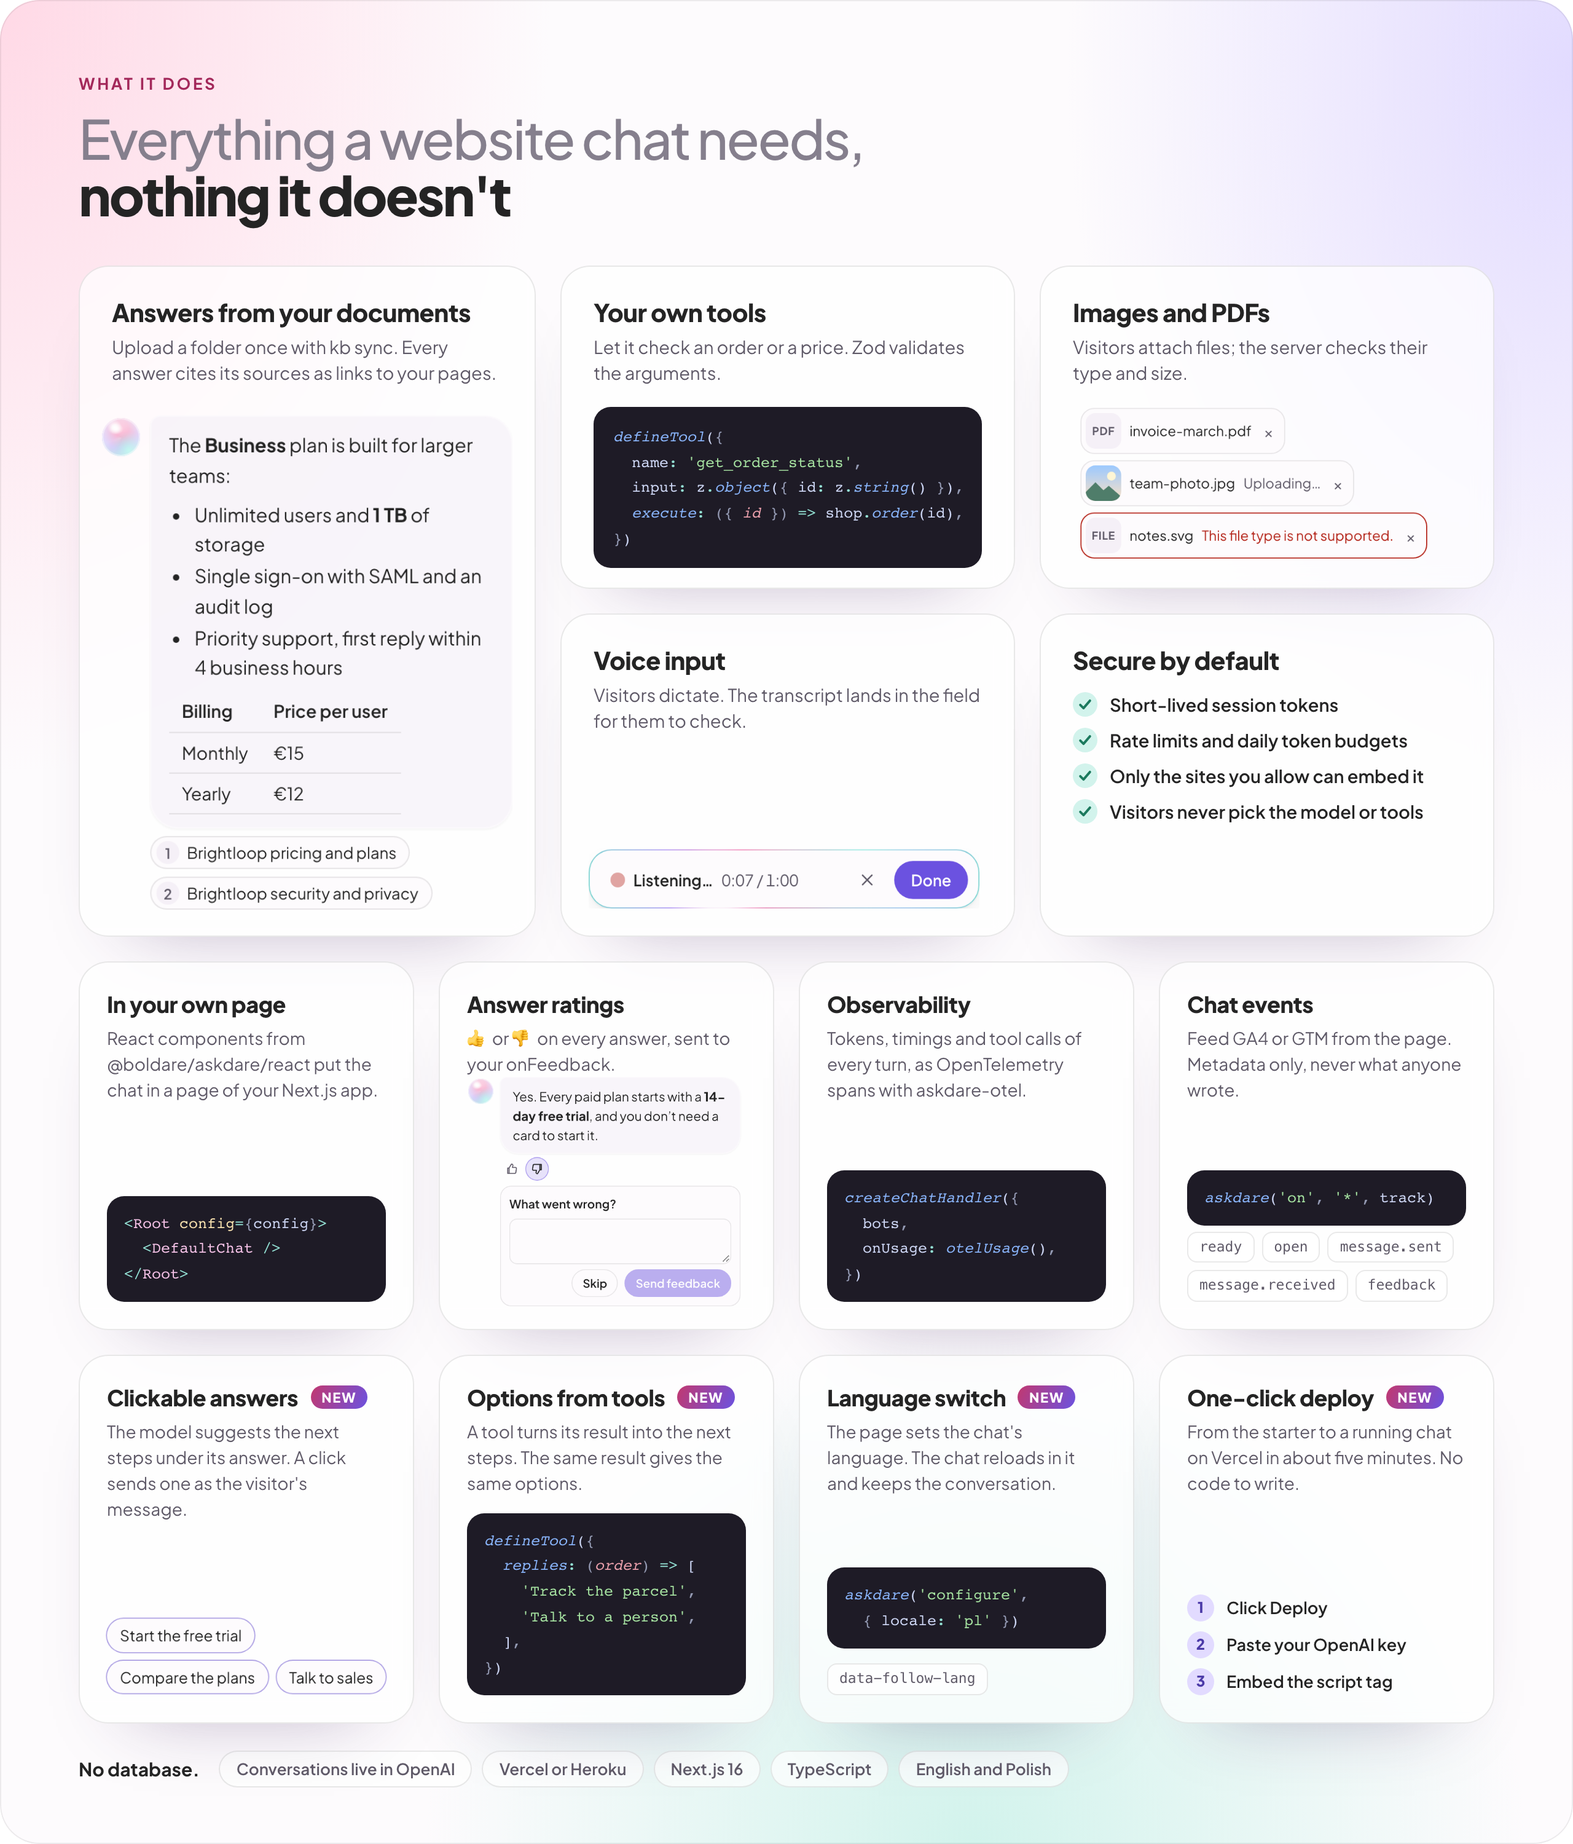
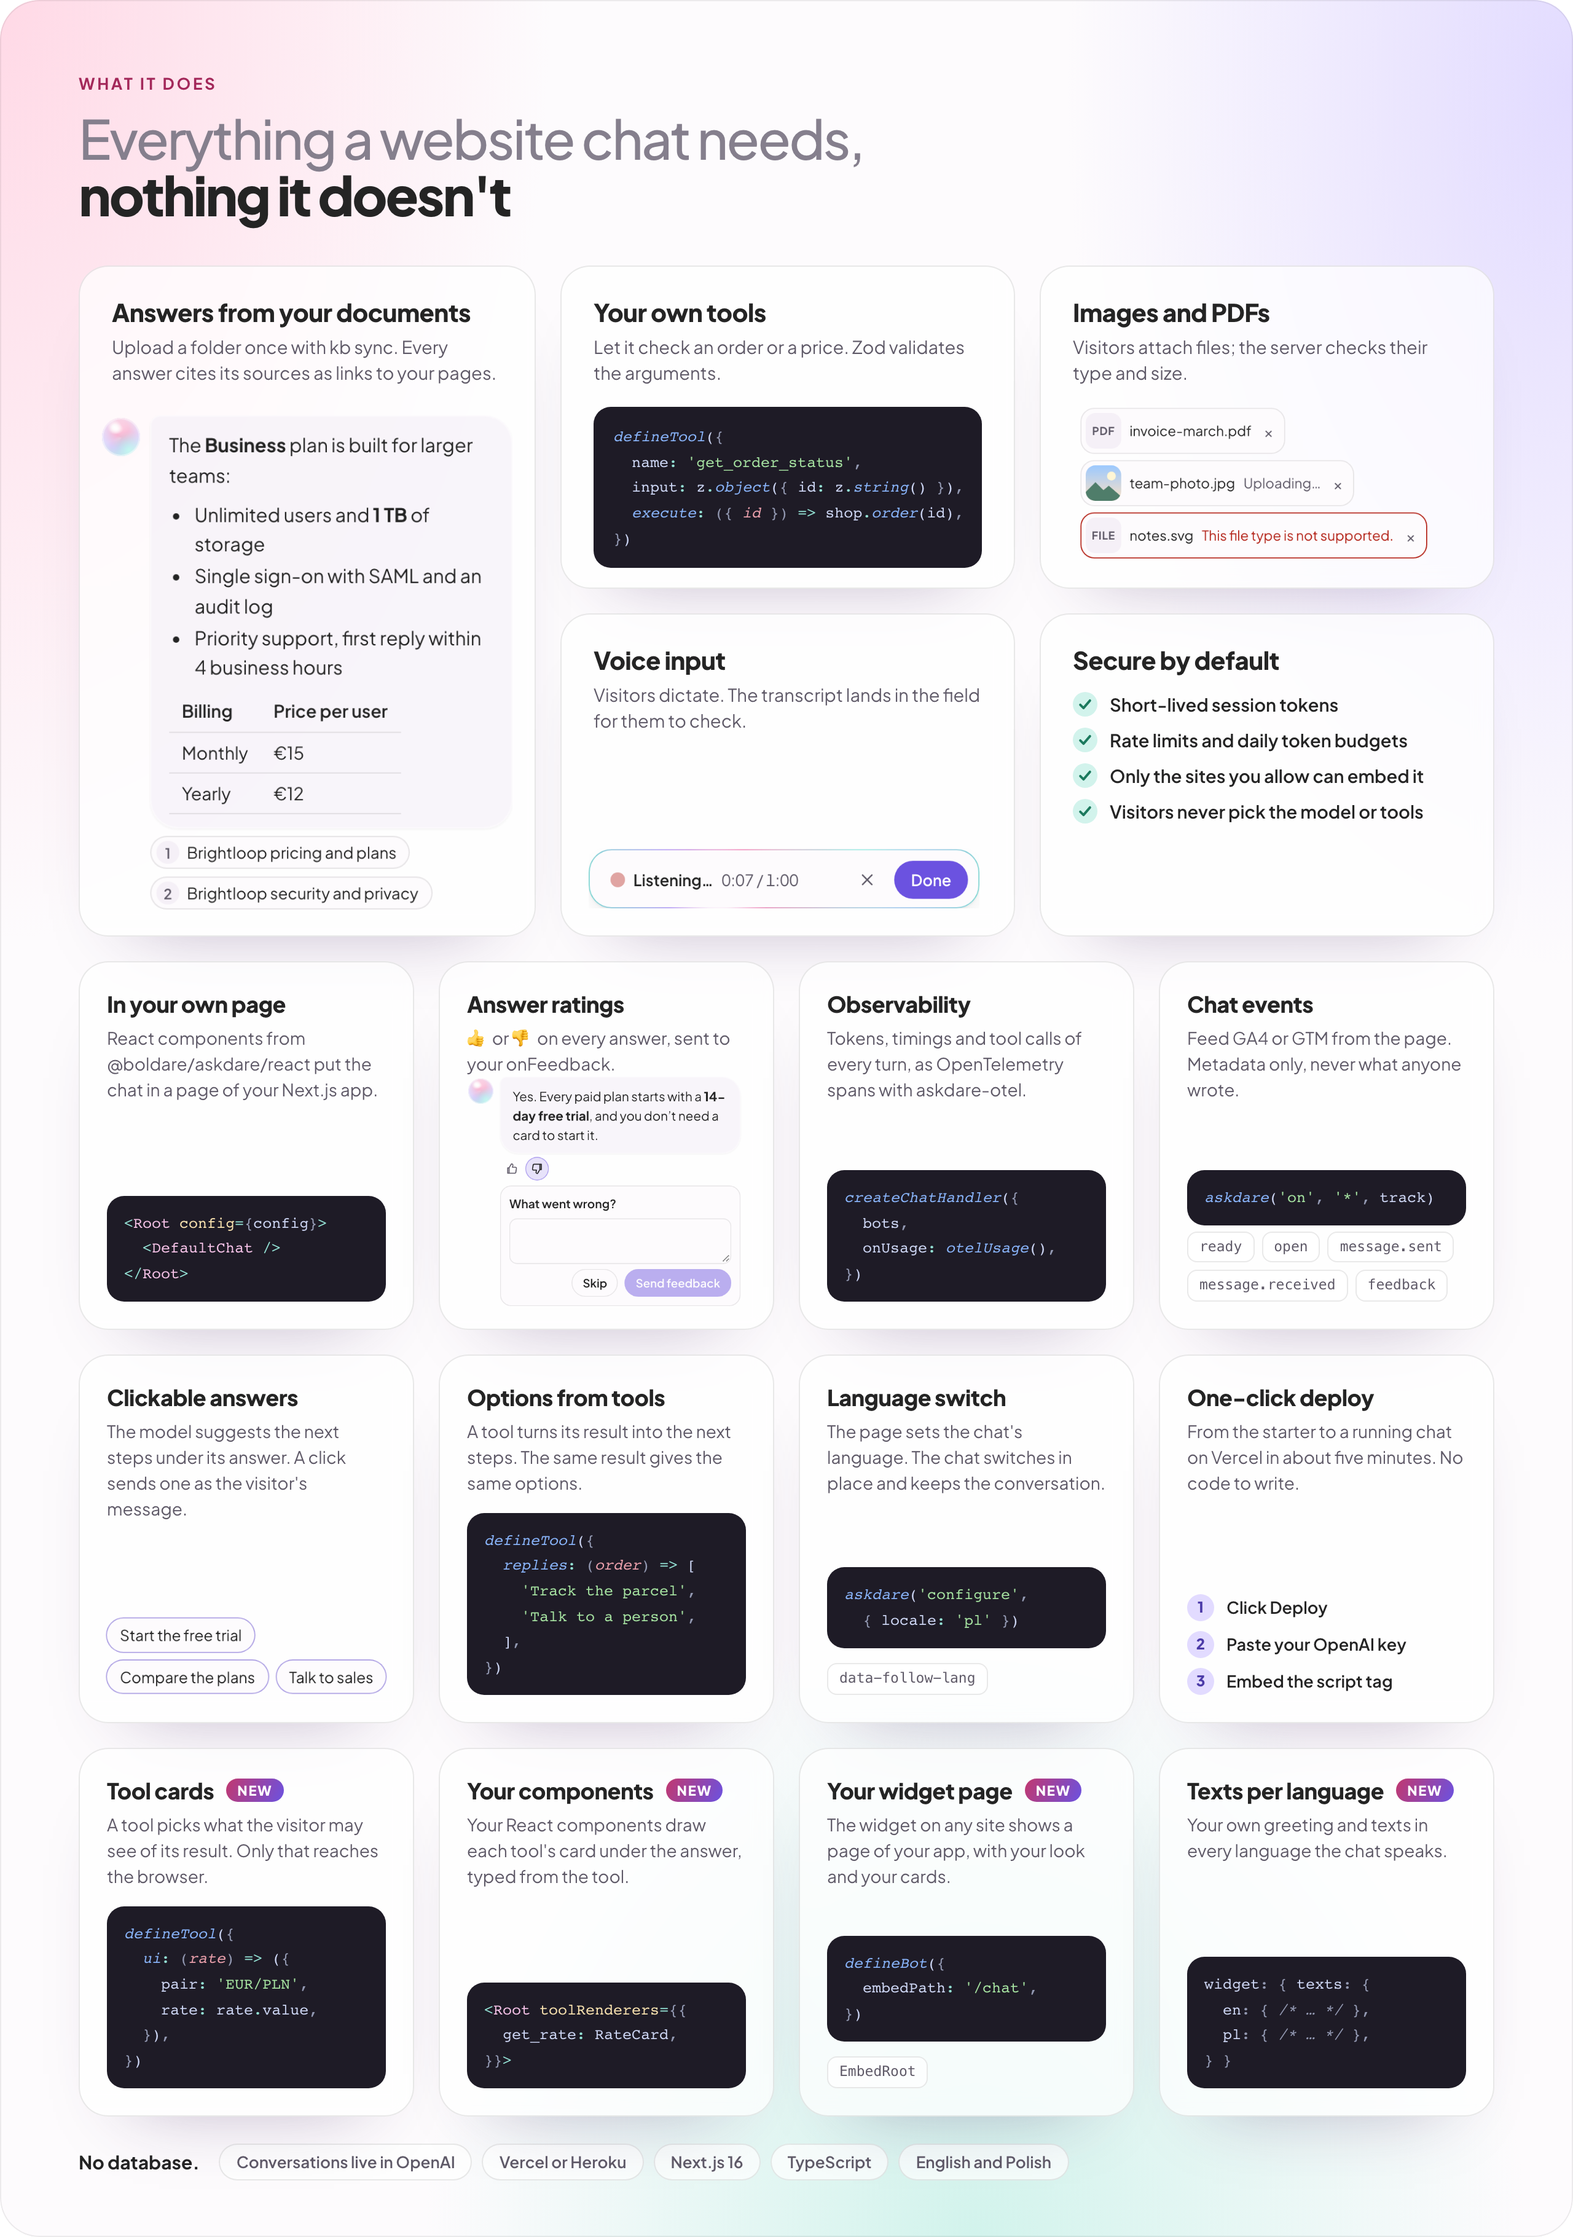
docs: prepare the 0.4 release notes, poster and roadmap

diff --git a/site/app/(site)/page.tsx b/site/app/(site)/page.tsx
@@ -48,7 +48,7 @@ const FEATURES = [
   },
   {
     title: 'Your own tools',
-    text: 'Let the assistant check an order or a price. Arguments are validated with Zod, end to end.',
+    text: 'Let the assistant check an order or a price, and show the result as your own card. Zod validates the arguments.',
     href: '/docs/tools',
     more: 'Tools',
   },
@@ -60,7 +60,7 @@ const FEATURES = [
   },
   {
     title: 'Inside your React pages',
-    text: 'Or skip the iframe: render the chat in your own Next.js pages, ready-made or in your own markup.',
+    text: 'Render the chat in your own Next.js pages, ready-made or in your own markup, and show that page in the widget too.',
     href: '/docs/react',
     more: 'The chat inside your page',
   },

diff --git a/ROADMAP.md b/ROADMAP.md
@@ -23,17 +23,14 @@ A change to what a release contains comes as a pull request to this file.
 
 Compaction left 0.3 after spike S5b; see Later.
 
-## 0.4: settle in
+## 0.4.0: settle in
 
-0.4 ships these three, in this order, one at a time in the Core lane:
+0.4.0 is ready for release. What it brings:
+- runtime language, step 2: texts per language in `defineBot`, `GET <basePath>/config/<bot>?lang=`, and the chat switching its language in place, keeping the conversation and an answer under way ([ADR-0014](docs/adr/0014-runtime-language.md));
+- tool cards: a tool picks what the visitor may see of its result with `defineTool({ ui })`, and React components draw it with `toolRenderers` ([ADR-0017](docs/adr/0017-tool-renderers.md));
+- your own page in the widget's iframe: `embedPath`, `EmbedRoot` from `@boldare/askdare/embed`, `getEmbedConfig` and `embedPageHeaders`, so the script-tag widget uses your components and draws your tool cards ([ADR-0018](docs/adr/0018-embed-path.md)).
 
-| Epic | Goal | Decision |
-|---|---|---|
-| Runtime language, step 2 | Switch the language in place, with texts per language in `defineBot` and `GET <basePath>/config/<bot>?lang=` | [ADR-0014](docs/adr/0014-runtime-language.md) |
-| `toolRenderers` | React components for tool results, building on the reply-options payload. | [ADR-0017](docs/adr/0017-tool-renderers.md) |
-| `embedPath` | A custom UI inside the iframe, so the script-tag widget can use your own components and `toolRenderers`. | [ADR-0018](docs/adr/0018-embed-path.md) |
-
-All three are done: runtime language step 2, `toolRenderers` (ADR-0017) and `embedPath` (ADR-0018). Admin left 0.4 to keep it small; see Later.
+Admin left 0.4 to keep it small; see Later.
 
 ## Later
 
@@ -73,6 +70,6 @@ Work runs in parallel lanes. Tasks that touch the **hot files** run one at a tim
 | Deploy | What is left of the deploy buttons: the starter template repo for the Heroku button | No |
 | Decisions | ADRs and design notes, in parallel with everything. The 0.4 design notes are done (ADR-0017, ADR-0018) | No |
 | Spikes | Experiments in `spikes/`. For 0.4: S6, a `ModelGateway` for Claude | No |
-| Core | Nothing left for 0.4 | **Yes**, one task at a time |
+| Core | Nothing open until the next release is planned | **Yes**, one task at a time |
 
 Core work for 0.4 lands on `main` with `--no-ff`, or on an integration branch `release/0.4` if a task must not reach `main` before the release ([RELEASING.md](RELEASING.md)). `embedPath` was such a case: its server side (3b) waited on `release/0.4` for `EmbedRoot` (3c), and both reached `main` together.

diff --git a/docs/privacy.md b/docs/privacy.md
@@ -112,7 +112,7 @@ Everything below lives in the OpenAI project whose key the app uses. Name OpenAI
 ### Conversations
 
 - Conversations are stored with OpenAI's Conversations API, in your project, **until they are deleted** ([ADR-0003](adr/0003-conversation-state.md)). Each one carries the bot ID and the visitor ID as metadata (`askdare_bot`, `askdare_visitor`).
-- A conversation holds the visitor's messages, the page context, the answers, and the tool calls with their results. [Reply options](reply-options.md) the model suggested are stored there as a call of `suggest_replies`; options a tool defines aren't stored on their own, since they are derived again from the stored result. A clicked option is an ordinary visitor message. The instructions are sent with each request rather than stored in the conversation.
+- A conversation holds the visitor's messages, the page context, the answers, and the tool calls with their results. [Reply options](reply-options.md) the model suggested are stored there as a call of `suggest_replies`; options a tool defines aren't stored on their own, since they are derived again from the stored result. A clicked option is an ordinary visitor message. [Tool cards](react.md#tool-cards) work the same way: what a tool's `ui` picks from its result is sent to the visitor's browser and shown, and is derived again from the stored result after a reload, so pick only what the visitor may see. The instructions are sent with each request rather than stored in the conversation.
 - **The visitor can delete it.** "Start a new conversation" asks "Start a new conversation? The current one will be deleted." and then deletes it at OpenAI. For bots with attachments, the files attached in it are deleted too; a file that fails to delete expires on its own.
 - **Nothing else deletes it.** When the browser's handle expires after 30 days, or the visitor clears the browser, the conversation stays in your project. askdare keeps no list of conversations, and OpenAI's API has no endpoint to list them, so there is no tool to find, export or delete one visitor's conversation. Take this into account in your retention decision ([Going public](going-public.md#6-privacy-and-transparency)).
 - **Who can read it:** whoever uses the same browser can continue an anonymous conversation and see its history while the handle works. On a shared computer, that includes the next person, unless the visitor started a new conversation. A conversation started while signed in is shown only to that user ([Signed-in visitors](identity.md)).

diff --git a/packages/askdare/README.md b/packages/askdare/README.md
@@ -38,7 +38,7 @@ export const bots = [
 
 ## What you get
 
-[![What it does: answers from your documents with citations, your own tools, images and PDFs, voice input, secure by default, the chat inside your own page with React, thumbs-up and thumbs-down ratings of answers, observability with OpenTelemetry, and chat events for analytics. New in 0.3: clickable answers suggested by the model, reply options from your tools, switching the chat's language from the page, and a one-click deploy. No database.](https://raw.githubusercontent.com/boldare/askdare/main/.github/assets/askdare-features.png)](https://askdare.vercel.app/#features)
+[![What it does: answers from your documents with citations, your own tools, images and PDFs, voice input, secure by default, the chat inside your own page with React, thumbs-up and thumbs-down ratings of answers, observability with OpenTelemetry, and chat events for analytics. Also clickable answers suggested by the model, reply options from your tools, switching the chat's language from the page, and a one-click deploy. New in 0.4: tool cards, drawn by your own React components, your own page inside the widget, and texts per language. No database.](https://raw.githubusercontent.com/boldare/askdare/main/.github/assets/askdare-features.png)](https://askdare.vercel.app/#features)
 
 [Knowledge base](https://askdare.vercel.app/docs/knowledge-base) · [Tools](https://askdare.vercel.app/docs/tools) · [Tool cards](https://askdare.vercel.app/docs/react#tool-cards) · [Reply options](https://askdare.vercel.app/docs/reply-options) · [Attachments](https://askdare.vercel.app/docs/attachments) · [Voice input](https://askdare.vercel.app/docs/voice-input) · [The chat inside your page (React)](https://askdare.vercel.app/docs/react) · [Your own page in the widget](https://askdare.vercel.app/docs/embedding#your-own-page-in-the-iframe) · [Answer ratings](https://askdare.vercel.app/docs/feedback) · [Security](https://github.com/boldare/askdare/blob/main/THREAT_MODEL.md)
 

diff --git a/.changeset/tool-renderers.md b/.changeset/tool-renderers.md
@@ -2,4 +2,4 @@
 '@boldare/askdare': minor
 ---
 
-Tool cards in the chat inside your page (ADR-0017). Give `Root` your components with `toolRenderers={{ find_slots: SlotList }}`, and the chat draws each tool's `ui` payload with its component under the answer, live and after a reload. A component gets `{ data, name, callId }`, typed from the tool with `ToolRendererProps<typeof findSlots>` and `import type`; `satisfies ToolRenderers<[typeof findSlots]>` checks the whole map. New primitives: `ToolResults` (parts `tool-results` and `tool-result`, with `data-ask-tool`), which `DefaultChat` places under the answer's text, and `Link`, which allows only `https`, `http` and `mailto` URLs from a payload. A tool without a component shows nothing, and a component that throws leaves out only its card. The script-tag widget receives the payloads but has no components to draw them with yet.
+Tool cards in the chat inside your page (ADR-0017). Give `Root` your components with `toolRenderers={{ find_slots: SlotList }}`, and the chat draws each tool's `ui` payload with its component under the answer, live and after a reload. A component gets `{ data, name, callId }`, typed from the tool with `ToolRendererProps<typeof findSlots>` and `import type`; `satisfies ToolRenderers<[typeof findSlots]>` checks the whole map. New primitives: `ToolResults` (parts `tool-results` and `tool-result`, with `data-ask-tool`), which `DefaultChat` places under the answer's text, and `Link`, which allows only `https`, `http` and `mailto` URLs from a payload. A tool without a component shows nothing, and a component that throws leaves out only its card. In the script-tag widget, a bot draws them when its iframe shows your own page (`embedPath` and `EmbedRoot`); askdare's own iframe page has no components to draw them with.

diff --git a/README.md b/README.md
@@ -63,7 +63,7 @@ Or [try it first, in five minutes](#your-chatbot-in-five-minutes), without your 
 
 ## What you get
 
-[![What it does: answers from your documents with citations, your own tools, images and PDFs, voice input, secure by default, the chat inside your own page with React, thumbs-up and thumbs-down ratings of answers, observability with OpenTelemetry, and chat events for analytics. New in 0.3: clickable answers suggested by the model, reply options from your tools, switching the chat's language from the page, and a one-click deploy. No database.](.github/assets/askdare-features.png)](https://askdare.vercel.app/#features)
+[![What it does: answers from your documents with citations, your own tools, images and PDFs, voice input, secure by default, the chat inside your own page with React, thumbs-up and thumbs-down ratings of answers, observability with OpenTelemetry, and chat events for analytics. Also clickable answers suggested by the model, reply options from your tools, switching the chat's language from the page, and a one-click deploy. New in 0.4: tool cards, drawn by your own React components, your own page inside the widget, and texts per language. No database.](.github/assets/askdare-features.png)](https://askdare.vercel.app/#features)
 
 [Knowledge base](docs/knowledge-base.md) · [Tools](docs/tools.md) · [Tool cards](docs/react.md#tool-cards) · [Reply options](docs/reply-options.md) · [Attachments](docs/attachments.md) · [Voice input](docs/voice-input.md) · [The chat inside your page (React)](docs/react.md) · [Your own page in the widget](docs/embedding.md#your-own-page-in-the-iframe) · [Answer ratings](docs/feedback.md) · [Observability](docs/observability.md) · [Chat events](docs/events.md) · [Security](THREAT_MODEL.md)
 

diff --git a/.changeset/embed-path-server.md b/.changeset/embed-path-server.md
@@ -2,4 +2,4 @@
 '@boldare/askdare': minor
 ---
 
-A bot can show a page of your app in the widget's iframe instead of askdare's own (ADR-0018). Set `defineBot({ embedPath: '/askdare/support' })`, and the chat route redirects the iframe there with the visitor's language and the mode; the loader on the embedding sites doesn't change. `@boldare/askdare/next` adds `getEmbedConfig({ bots, bot, searchParams })`, the configuration for that page, and `embedPageHeaders({ bots, bot })`, the `frame-ancestors`, `Permissions-Policy` and `Referrer-Policy` headers it must send, for `headers()` in `next.config.ts`. `askdare doctor` follows the redirect and checks the page. `EmbedRoot`, which renders the chat on that page, comes in a later 0.4 step.
+A bot can show a page of your app in the widget's iframe instead of askdare's own (ADR-0018). Set `defineBot({ embedPath: '/askdare/support' })`, and the chat route redirects the iframe there with the visitor's language and the mode; the loader on the embedding sites doesn't change. `@boldare/askdare/next` adds `getEmbedConfig({ bots, bot, searchParams })`, the configuration for that page, and `embedPageHeaders({ bots, bot })`, the `frame-ancestors`, `Permissions-Policy` and `Referrer-Policy` headers it must send, to send from `proxy.ts`. `askdare doctor` follows the redirect and checks the page: no redirect in front of it, `EmbedRoot` on it, who may frame it and the microphone rule. The page renders the chat with `EmbedRoot` from `@boldare/askdare/embed`.

diff --git a/.changeset/tool-ui-payload.md b/.changeset/tool-ui-payload.md
@@ -2,4 +2,4 @@
 '@boldare/askdare': minor
 ---
 
-Tools can pick what the visitor sees of their result (ADR-0017). `defineTool({ ui: (result) => data })` returns plain JSON of at most 8 KB for a card, list or table; only that reaches the browser, never the result itself. The server sends it as a new `tool.ui` event after the call (additive within protocol version 1), and `POST /history` brings every answer's payloads back as `ui` after a reload. At most 4 per answer, in call order; a failed call, a throwing `ui` or a payload over the limits shows nothing. `Tool` now carries the tool's name and payload type (`Tool<Name, Ui>`), for typed React components with `toolRenderers`, which come next. Until then the payloads are kept on `ChatMessage.ui` but nothing draws them.
+Tools can pick what the visitor sees of their result (ADR-0017). `defineTool({ ui: (result) => data })` returns plain JSON of at most 8 KB for a card, list or table; only that reaches the browser, never the result itself. The server sends it as a new `tool.ui` event after the call (additive within protocol version 1), and `POST /history` brings every answer's payloads back as `ui` after a reload. At most 4 per answer, in call order; a failed call, a throwing `ui` or a payload over the limits shows nothing. `Tool` now carries the tool's name and payload type (`Tool<Name, Ui>`), so the React components that draw the payloads (`toolRenderers`) are typed from the tool. The browser keeps them on `ChatMessage.ui`.

diff --git a/.changeset/readme-poster-04.md b/.changeset/readme-poster-04.md
@@ -1,0 +1,5 @@
+---
+'@boldare/askdare': patch
+---
+
+The README's "What you get" picture now shows what 0.4 adds: tool cards, drawn by your own React components, your own page inside the widget, and texts per language.
